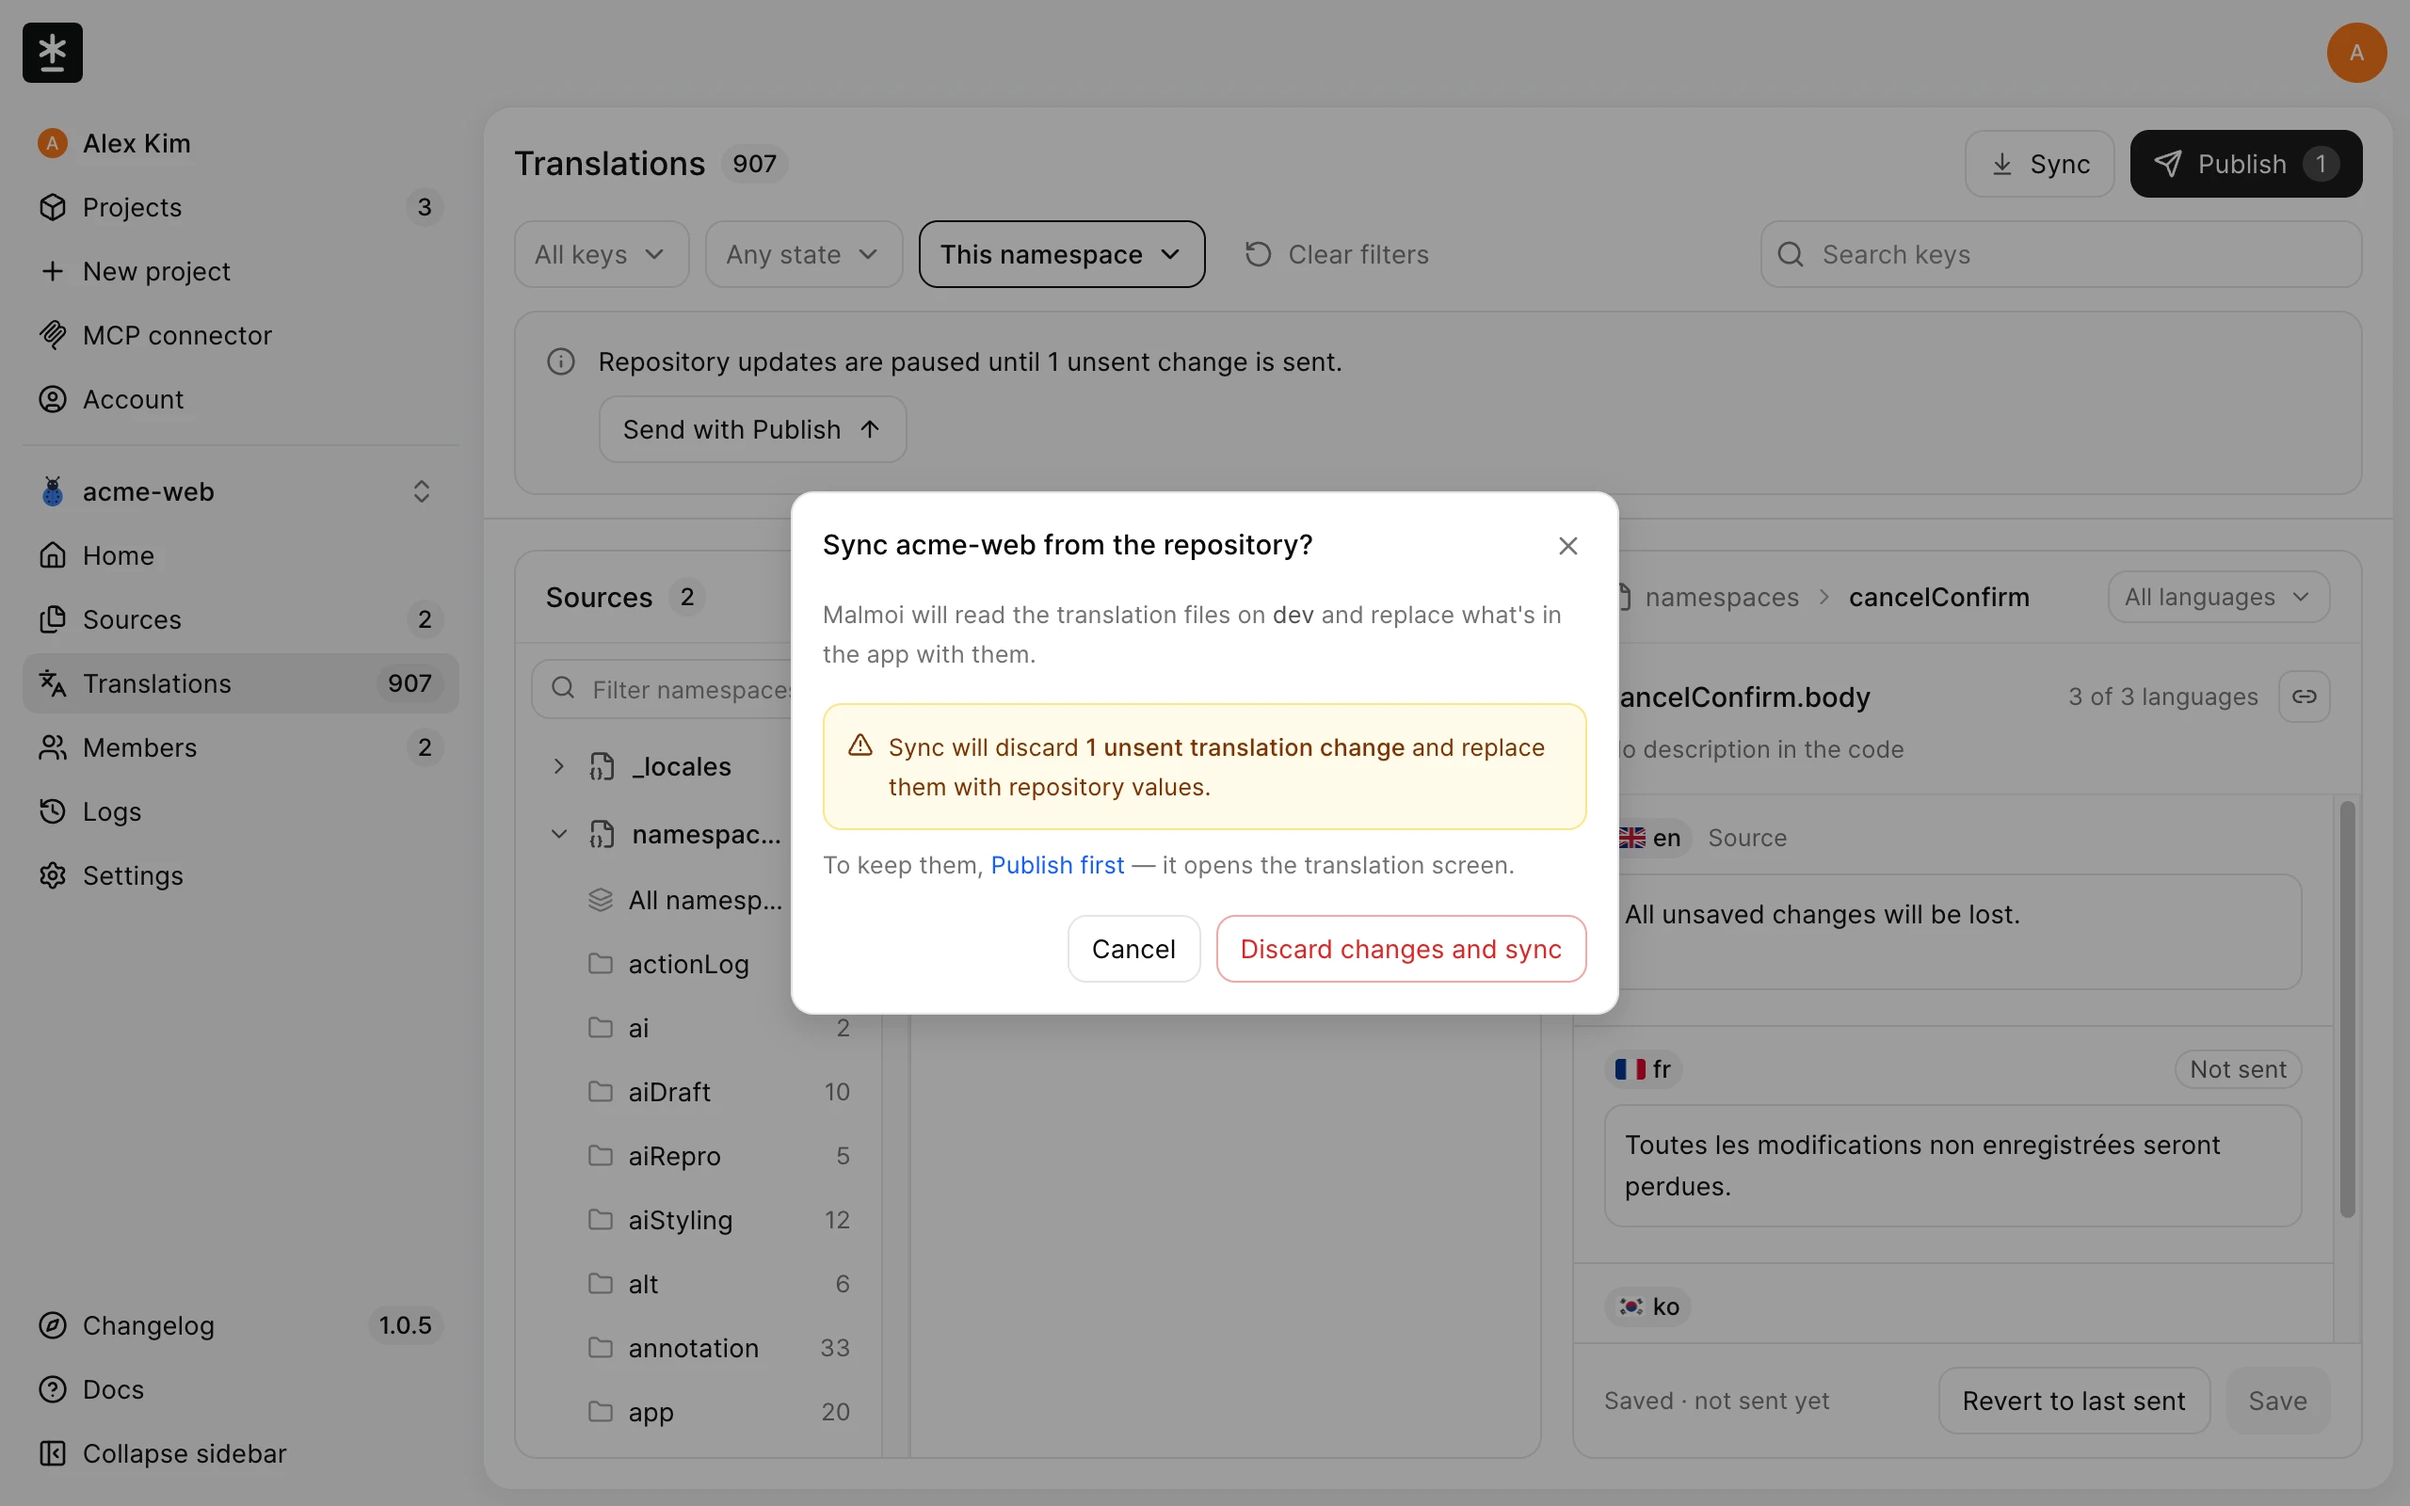
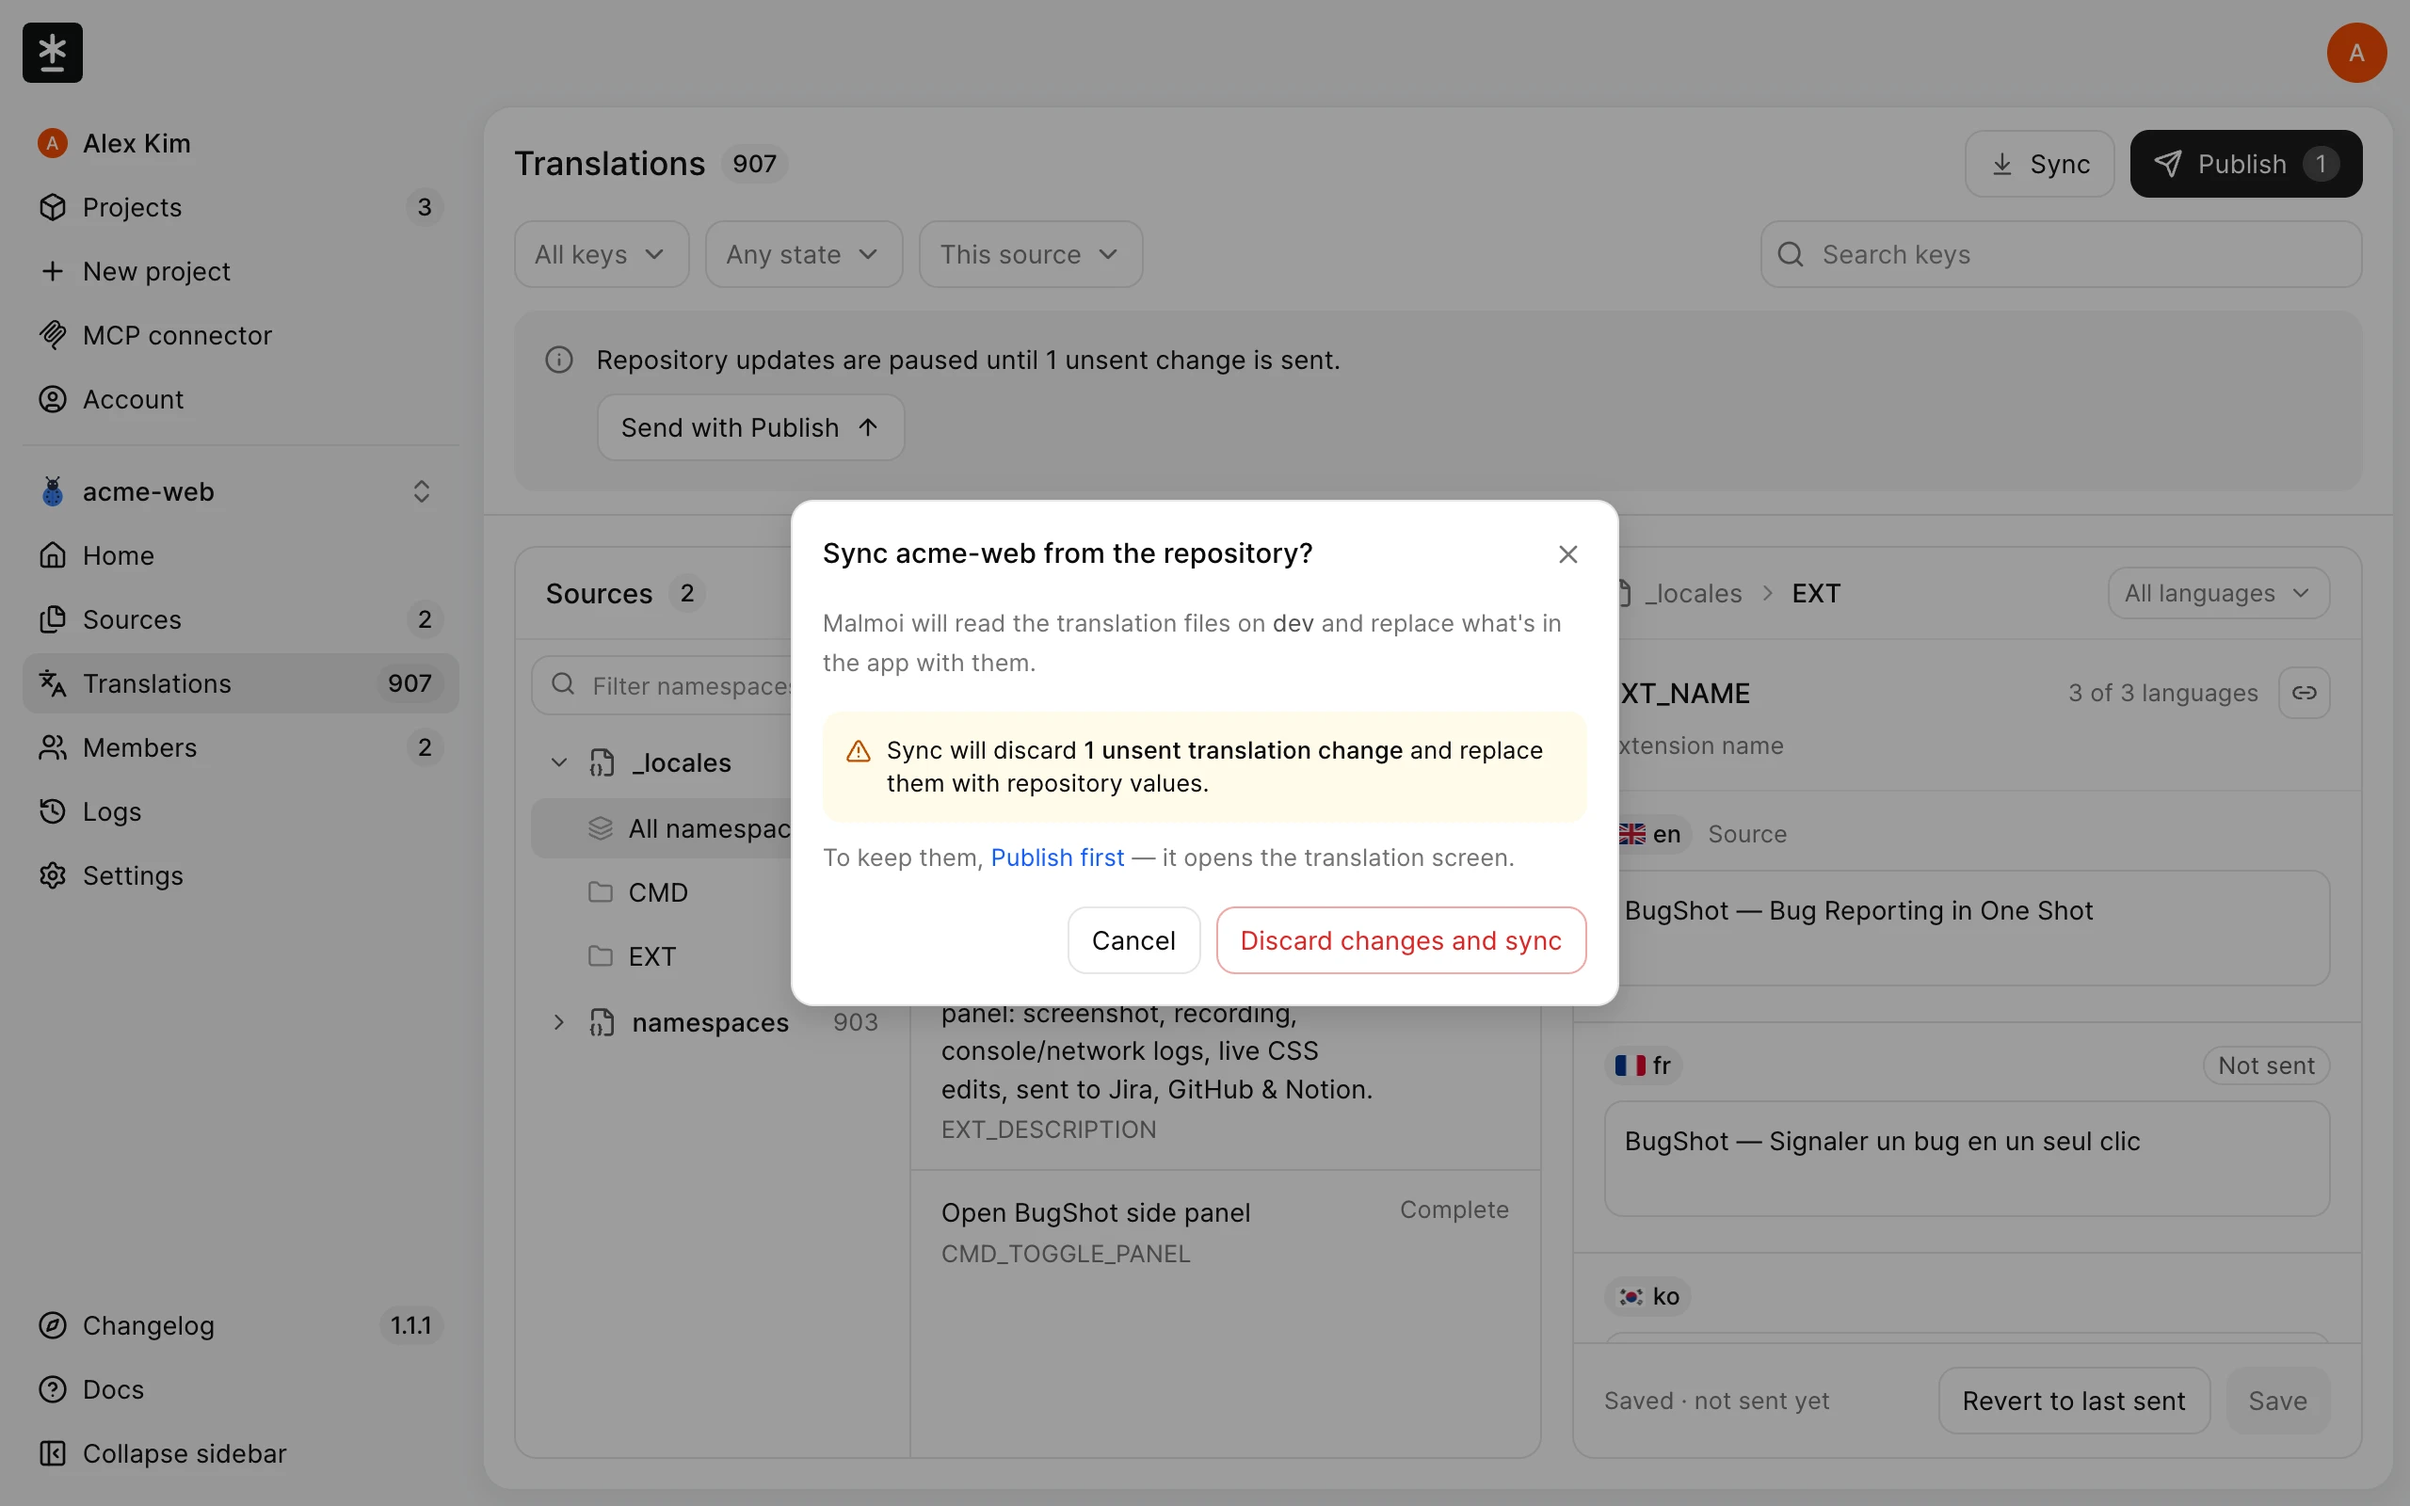
docs(guide): reshoot revert-confirm and sync-discard for the borderless Alert, refresh nine SHAs

diff --git a/guide/SHOOTING.md b/guide/SHOOTING.md
@@ -90,24 +90,24 @@
 | /guide/actions-policy.webp | lib/onboarding/workflow.ts, .github/actions/malmoi-i18n-push/action.yml | 45d351ca4d9fc6cff70c84d0e784e6e992edba69, 7278e8afabcf49ab7691443251786b3352c276c6 | 2560x1600 |
 | /guide/translation-editor.webp | components/translations/workspace/key-list.tsx, components/translations/workspace/locale-panel.tsx | 0a18a5bcbc8fa31d663ea0dbf7523c2b72c4b6cc, 1616f975ee725ef8c687ea5f647ae3fecbe3e4ac | 2560x1600 |
 | /guide/publish-preview.webp | components/publish-button.tsx, lib/publish/preview.ts | 5da54cab3106be7df63d6093f2d28c42f2b643d5, 257ebc5a440efdd31731c6426b9851f869a41561 | 2560x1600 |
-| /guide/project-home.webp | app/(edit)/projects/[slug]/(home)/page.tsx, components/home/count-cards.tsx, components/home/meta-column.tsx | 4174b3928c6ed77494331c9f9271916d08020573, cd1ba61b1b8896bbb609c8abe427d58e48205709, de89009886e92c6592bd49c7a9f7671c273086ac | 2560x1600 |
+| /guide/project-home.webp | app/(edit)/projects/[slug]/(home)/page.tsx, components/home/count-cards.tsx, components/home/meta-column.tsx | 5b17e2dd84ed26dd5b6fee96b9959bf98a44f591, cd1ba61b1b8896bbb609c8abe427d58e48205709, de89009886e92c6592bd49c7a9f7671c273086ac | 2560x1600 |
 | /guide/invite-members.webp | components/members/invite-modal.tsx | a081452a0821600fc1e9ed02fb20dbd8073ae06e | 2560x1600 |
 | /guide/members.webp | components/members/member-list.tsx, components/members/member-row.tsx, components/members/pending-invitations.tsx | 4945fd24321dc38619c04e3251b1afc108785e09, 540128fd7eff236573687ebd7bbbec98a8dc09a8, b64f43fad2ebaed332569e381b893ecac7414db7 | 2560x1600 |
-| /guide/sources.webp | components/sources/sources-screen.tsx, components/sources/source-status.tsx | b19fe7e08e1e0e1eeb82dc6e273e13e6354faa33, 0a919f69e5584af9bf861731c25cdd85b12c8e63 | 2560x1600 |
-| /guide/add-sources.webp | components/sources/add-sources-modal.tsx | ca027d458d6e483d6702243847828090c9ad9d05 | 2560x1600 |
+| /guide/sources.webp | components/sources/sources-screen.tsx, components/sources/source-status.tsx | 5de1b8ef34458c4c5c9c4ca3d4c0931d734c4918, 0a919f69e5584af9bf861731c25cdd85b12c8e63 | 2560x1600 |
+| /guide/add-sources.webp | components/sources/add-sources-modal.tsx | a5d967e4ae6d9c0ea5e6490d959f5bd8fb3539af | 2560x1600 |
 | /guide/archive-card.webp | components/settings/archive-card.tsx | b16198f250b8322cffa1938286fb2814189851c3 | 2560x1600 |
 | /guide/accept-invitation.webp | app/invite/[token]/page.tsx, components/invite/project-card.tsx, components/signin/auth-layout.tsx | f52c60923f6a8391492807fdf92bb8b473164029, f04bd2df388d5f046ad05818553e51c39fd45376, 707e072f943e340d3d4fb9b389ecb39f75d67eb2 | 2560x1600 |
 | /guide/state-filter.webp | components/translations/workspace/filter-menu.tsx | 8122e89e1cd4f89a9de260f4d4eb875822d168dd | 2560x1600 |
-| /guide/home-publish.webp | app/(edit)/projects/[slug]/(home)/page.tsx, components/home/count-cards.tsx, components/publish-button.tsx | 4174b3928c6ed77494331c9f9271916d08020573, cd1ba61b1b8896bbb609c8abe427d58e48205709, 5da54cab3106be7df63d6093f2d28c42f2b643d5 | 2560x1600 |
+| /guide/home-publish.webp | app/(edit)/projects/[slug]/(home)/page.tsx, components/home/count-cards.tsx, components/publish-button.tsx | 5b17e2dd84ed26dd5b6fee96b9959bf98a44f591, cd1ba61b1b8896bbb609c8abe427d58e48205709, 5da54cab3106be7df63d6093f2d28c42f2b643d5 | 2560x1600 |
 | /guide/publish-result.webp | components/publish-button.tsx | 5da54cab3106be7df63d6093f2d28c42f2b643d5 | 2560x1600 |
-| /guide/home-paused.webp | app/(edit)/projects/[slug]/(home)/page.tsx, components/home/count-cards.tsx | 4174b3928c6ed77494331c9f9271916d08020573, cd1ba61b1b8896bbb609c8abe427d58e48205709 | 2560x1600 |
-| /guide/revert-confirm.webp | components/translations/workspace/workspace.tsx, components/translations/edit-loss-banner.tsx | 0401ce55fb57f4b2b24b175da11fe2b9efea88af, 99d6e108205e3761d97872cf98c363ee1c634060 | 2560x1600 |
-| /guide/sync-discard.webp | components/home/sync-button.tsx | fbc0e86869a83eb51b2984f584911b83bf7fdb17 | 2560x1600 |
-| /guide/logs-event.webp | components/logs/event-dialog.tsx, components/logs/event-detail.tsx | cadf74e0cb02c69164c5d8bd828ea5441dc71d60, 9788954b94524cd0c09851a166375d9b89974660 | 2560x1600 |
-| /guide/account.webp | app/(edit)/account/page.tsx, components/account/profile-picture.tsx, components/account/login-methods.tsx, components/account/github-section.tsx | 6d03357fb3f33f6c8a21c869640d7f72f0bdca76, 37eec1067fce9caa706483a11deb51d76bf4f39b, dff3cf21dec15a3ca7006dee78278bd95b079324, e866658706416a009765e582123f1158decc7d6c | 2560x1600 |
+| /guide/home-paused.webp | app/(edit)/projects/[slug]/(home)/page.tsx, components/home/count-cards.tsx | 5b17e2dd84ed26dd5b6fee96b9959bf98a44f591, cd1ba61b1b8896bbb609c8abe427d58e48205709 | 2560x1600 |
+| /guide/revert-confirm.webp | components/translations/workspace/workspace.tsx, components/translations/edit-loss-banner.tsx | 0401ce55fb57f4b2b24b175da11fe2b9efea88af, 4cbebb3c05947fab764389a51253f24589bfb2d0 | 2560x1600 |
+| /guide/sync-discard.webp | components/home/sync-button.tsx | f6819688065992684fa0899caa3d13699c43e0b9 | 2560x1600 |
+| /guide/logs-event.webp | components/logs/event-dialog.tsx, components/logs/event-detail.tsx | cadf74e0cb02c69164c5d8bd828ea5441dc71d60, 76d2e83603942d5a17b12436c0f4c51512763dca | 2560x1600 |
+| /guide/account.webp | app/(edit)/account/page.tsx, components/account/profile-picture.tsx, components/account/login-methods.tsx, components/account/github-section.tsx | 6d03357fb3f33f6c8a21c869640d7f72f0bdca76, 37eec1067fce9caa706483a11deb51d76bf4f39b, b5c854085c6c97a92859631493939f2ef4220967, e866658706416a009765e582123f1158decc7d6c | 2560x1600 |
 | /guide/mcp-create-token.webp | components/mcp/token-modal.tsx, components/mcp/token-grant-fields.tsx | d56afa2334b2932c1734bab087e52280f6a4d543, 0074ab2f4ccec1114cfa3e0dbae332bbec2b6935 | 2560x1600 |
-| /guide/mcp-connector.webp | components/mcp/connected-apps-card.tsx, components/mcp/token-card.tsx, components/mcp/connect-card.tsx | 09449913f4e0f2bac6ed184dadfd753609c22a0e, 02dec0a0e34bb906d65c1921d5f9e1ed50b61d42, b99c5f6e6433a3076cd469bd79ec6423567e97ca | 2560x1600 |
-| /guide/oauth-consent.webp | app/oauth/authorize/page.tsx, components/oauth/consent-panel.tsx, components/oauth/app-card.tsx | 3440235fe7a45c306afa13f94ba1536d829b5f36, affd217b6f70429991a1d5053aa4caca267d3f81, c53824331c89ec5759a6173c71718b1b6b1ce01f | 2560x1600 |
+| /guide/mcp-connector.webp | components/mcp/connected-apps-card.tsx, components/mcp/token-card.tsx, components/mcp/connect-card.tsx | 6ff150d2c6518cf026c8da643895cca18e0d47f3, 02dec0a0e34bb906d65c1921d5f9e1ed50b61d42, b99c5f6e6433a3076cd469bd79ec6423567e97ca | 2560x1600 |
+| /guide/oauth-consent.webp | app/oauth/authorize/page.tsx, components/oauth/consent-panel.tsx, components/oauth/app-card.tsx | 3440235fe7a45c306afa13f94ba1536d829b5f36, 12ad3105c15d4917f0a245797f1b092f59159757, c53824331c89ec5759a6173c71718b1b6b1ce01f | 2560x1600 |
 | /guide/create-repository.webp | components/onboarding/new-project.tsx, components/onboarding/steps/repo.tsx | 92d8908f3e4e816ef619ad5056bf7c5fe7f9d5dd, 35a6949ccd7201ce6de97c7b3b2d944d32828c05 | 2560x1600 |
 | /guide/create-files.webp | components/onboarding/new-project.tsx, components/onboarding/steps/files.tsx | 92d8908f3e4e816ef619ad5056bf7c5fe7f9d5dd, 72c92128cde6e327a6215f67634a0a8d512d31d7 | 2560x1600 |
 | /guide/create-name.webp | components/onboarding/new-project.tsx, components/onboarding/steps/naming.tsx | 92d8908f3e4e816ef619ad5056bf7c5fe7f9d5dd, c588cef72e7d02b563634caec2630909d0b346c0 | 2560x1600 |
@@ -145,3 +145,4 @@
 - 2026-09-29 mcp-oauth — `mcp-connector` **재촬영**: 맨 위에 Connected apps 카드가 섰다(`ai-agents.md#connected-apps`로 옮겼다). 연결 둘(`Claude Code` · 이름 없는 Codex CIMD URL)은 dev DB에 가짜 `OAuthConnection` 행으로 심었고, 토큰 카드는 UI로 만든 토큰(원문은 찍지 않았다)이다 — 촬영 뒤 셋 다 지웠다. origin `http://localhost:3000` → `https://mal-moi.com`, OWNER 이름·아바타 치환. `mcp-create-token`은 필드를 `token-grant-fields.tsx`로 옮긴 리팩터라 화면이 같아 **재촬영 없이 소스에 그 파일을 더하고 SHA만 갱신**했다.
 - 2026-09-29 mcp-oauth 후속 — `oauth-consent` **추가**(`ai-agents.md#browser`): claude.ai CIMD(`claude.ai/oauth/mcp-oauth-client-metadata`, 콜백 `claude.ai/api/mcp/auth_callback`)로 만든 authorize 요청의 동의 화면, Authorize는 누르지 않았다(요청 행 1건은 10분 뒤 만료돼 다음 저장이 지운다). 이메일 → `alex.kim@example.com`, GitHub 아바타 → `AK` 이니셜 원. **SHA만 갱신** 둘: `accept-invitation`(`auth-layout.tsx`에 `scroll` prop과 주석만 — 초대 화면은 그 prop을 안 넘긴다) · `mcp-connector`(`connect-card.tsx`에 claude.ai 조직 안내 줄 — claude.ai 탭 안이라 기본 선택(Claude Code) 컷에 안 보인다).
 - 2026-09-29 `create-ready` **추가**(`setup/create-project.md#finish-setup` ④, 사용자 지시) — 벽 절의 절차대로 일회용 프로젝트(`SinhyeokKang/i18n-format-check` · dev · `locales/{locale}.yml` 한 세트)를 만들어 찍고 id로 지웠다(`ProjectEvent` 3 · `Translation` 28 · `StringKey` 10 · `Locale` 3 · `ProjectMember` 1 · `TranslationSurface` 1 · `Project` 1). 토큰 칩은 가짜 값이고 `api-url` 줄은 지웠다. Dim 뒤 셸은 마스킹 표 + `SinhyeokKang` → `Alex Kim`·`alex-kim/` + 아바타 `AK` 치환. `i18n-order-check`는 보관 → 복원(Logs에 보관·복원 사건이 남는다). 화면 문구(`Malmoi is ready` · `Push token` · `Open project`)가 본문과 같아 제외 사유였던 "버튼 문구 변경 예정"은 해소됐다. `create-project.md`에 남은 컷 없음.
+- 2026-09-29 Alert 재작업(테두리 없는 다섯 tone · `compact` · `live`) — stale 11컷 중 **Alert가 화면에 있는 둘만 재촬영**: `revert-confirm`(뒤의 보류 배너가 `info`→`neutral` 무테) · `sync-discard`(경고 블록이 `Alert warning compact`로). 편집은 `_locales` `EXT_NAME` fr 하나(`Signalement de bugs en un instant` → `Signaler un bug en un seul clic`)를 저장해 두 확인창을 찍고(Sync는 Cancel) 실제 Revert로 되돌렸다 — 미전달 0, GitHub 쓰기 없음, Logs에 편집 1·Revert 1 사건이 남았다. **SHA만 갱신** 아홉: `project-home`·`home-publish`·`home-paused`(Home 알림 띠가 비어 `empty:hidden` — 위 여백 16은 띠가 설 때만, `page.tsx`는 주석·memo 옵션), `sources`·`add-sources`(prop 배선·async transition 걷기 — 화면 불변), `logs-event`(성공 Publish라 노트가 없다), `account`·`mcp-connector`·`oauth-consent`(`role`→`live` 개명, 해당 Alert는 결과·미확인 상태에서만 선다).
